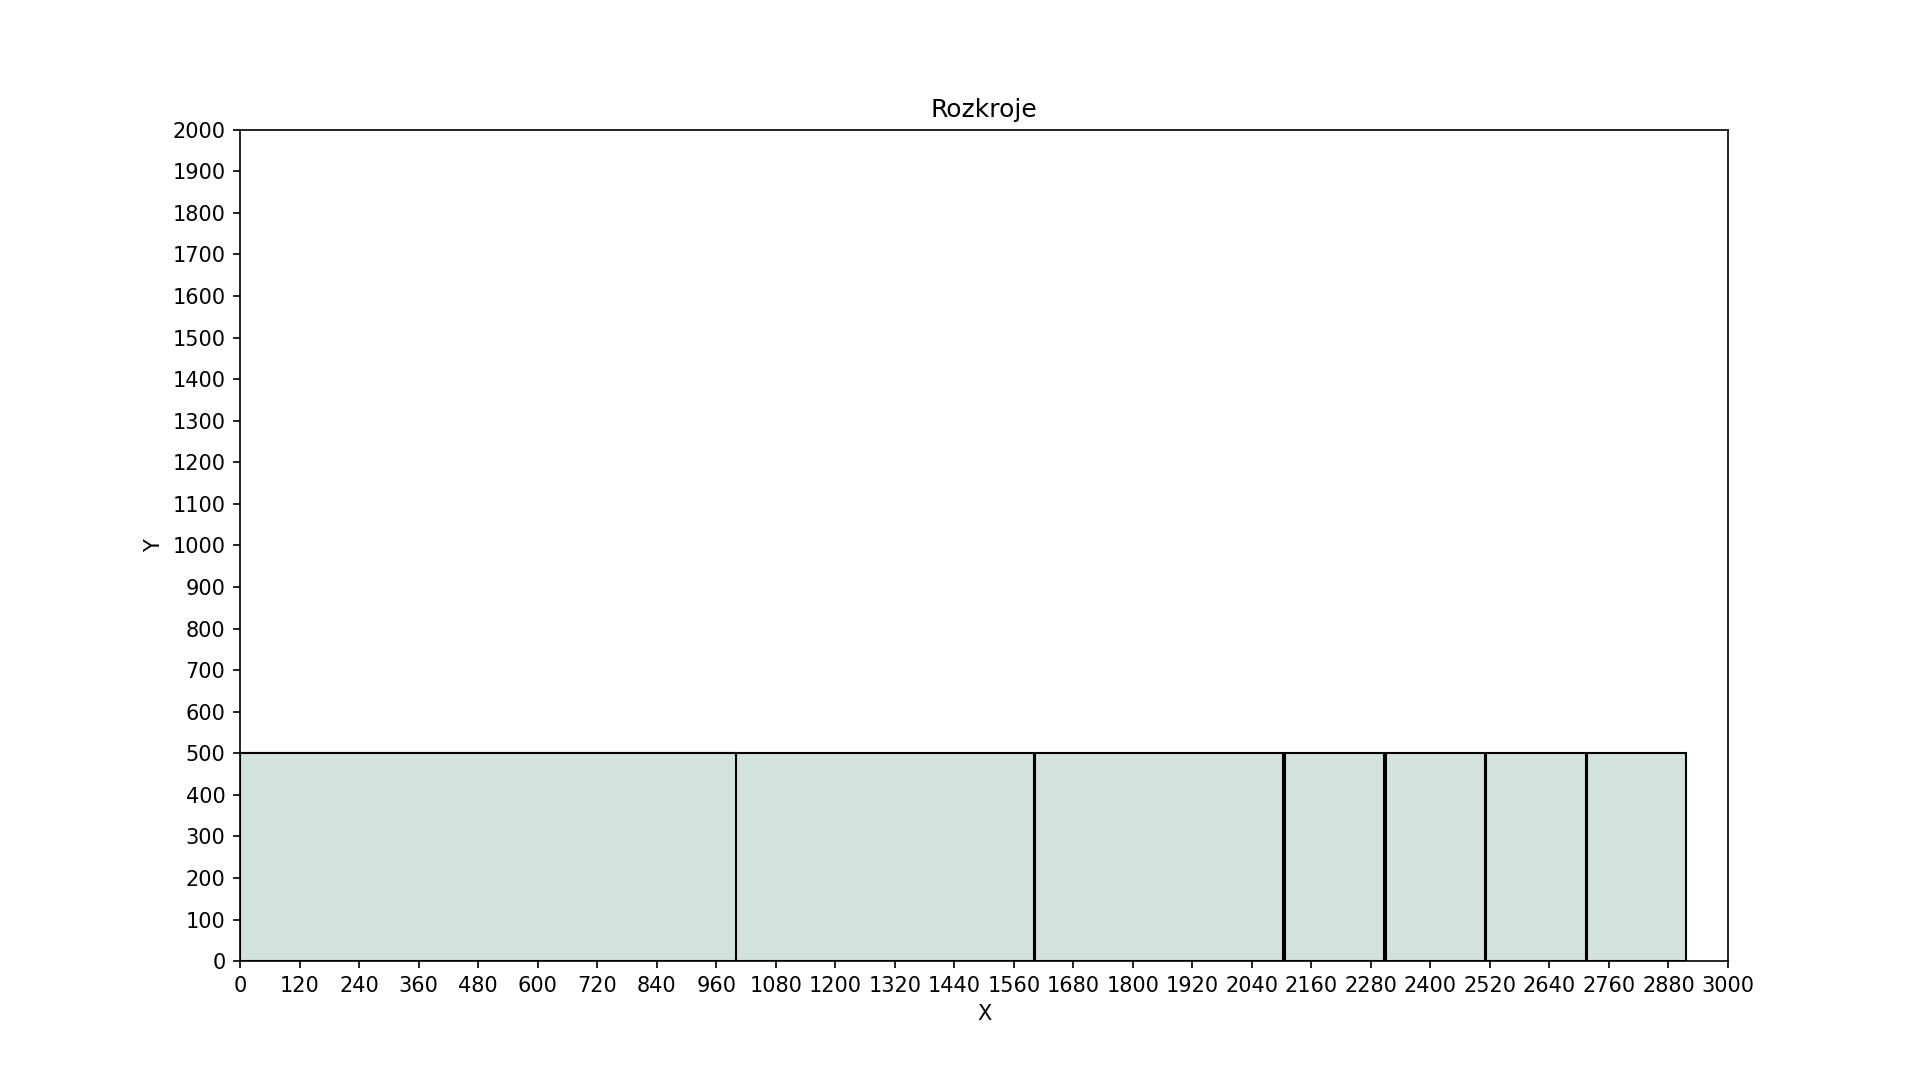
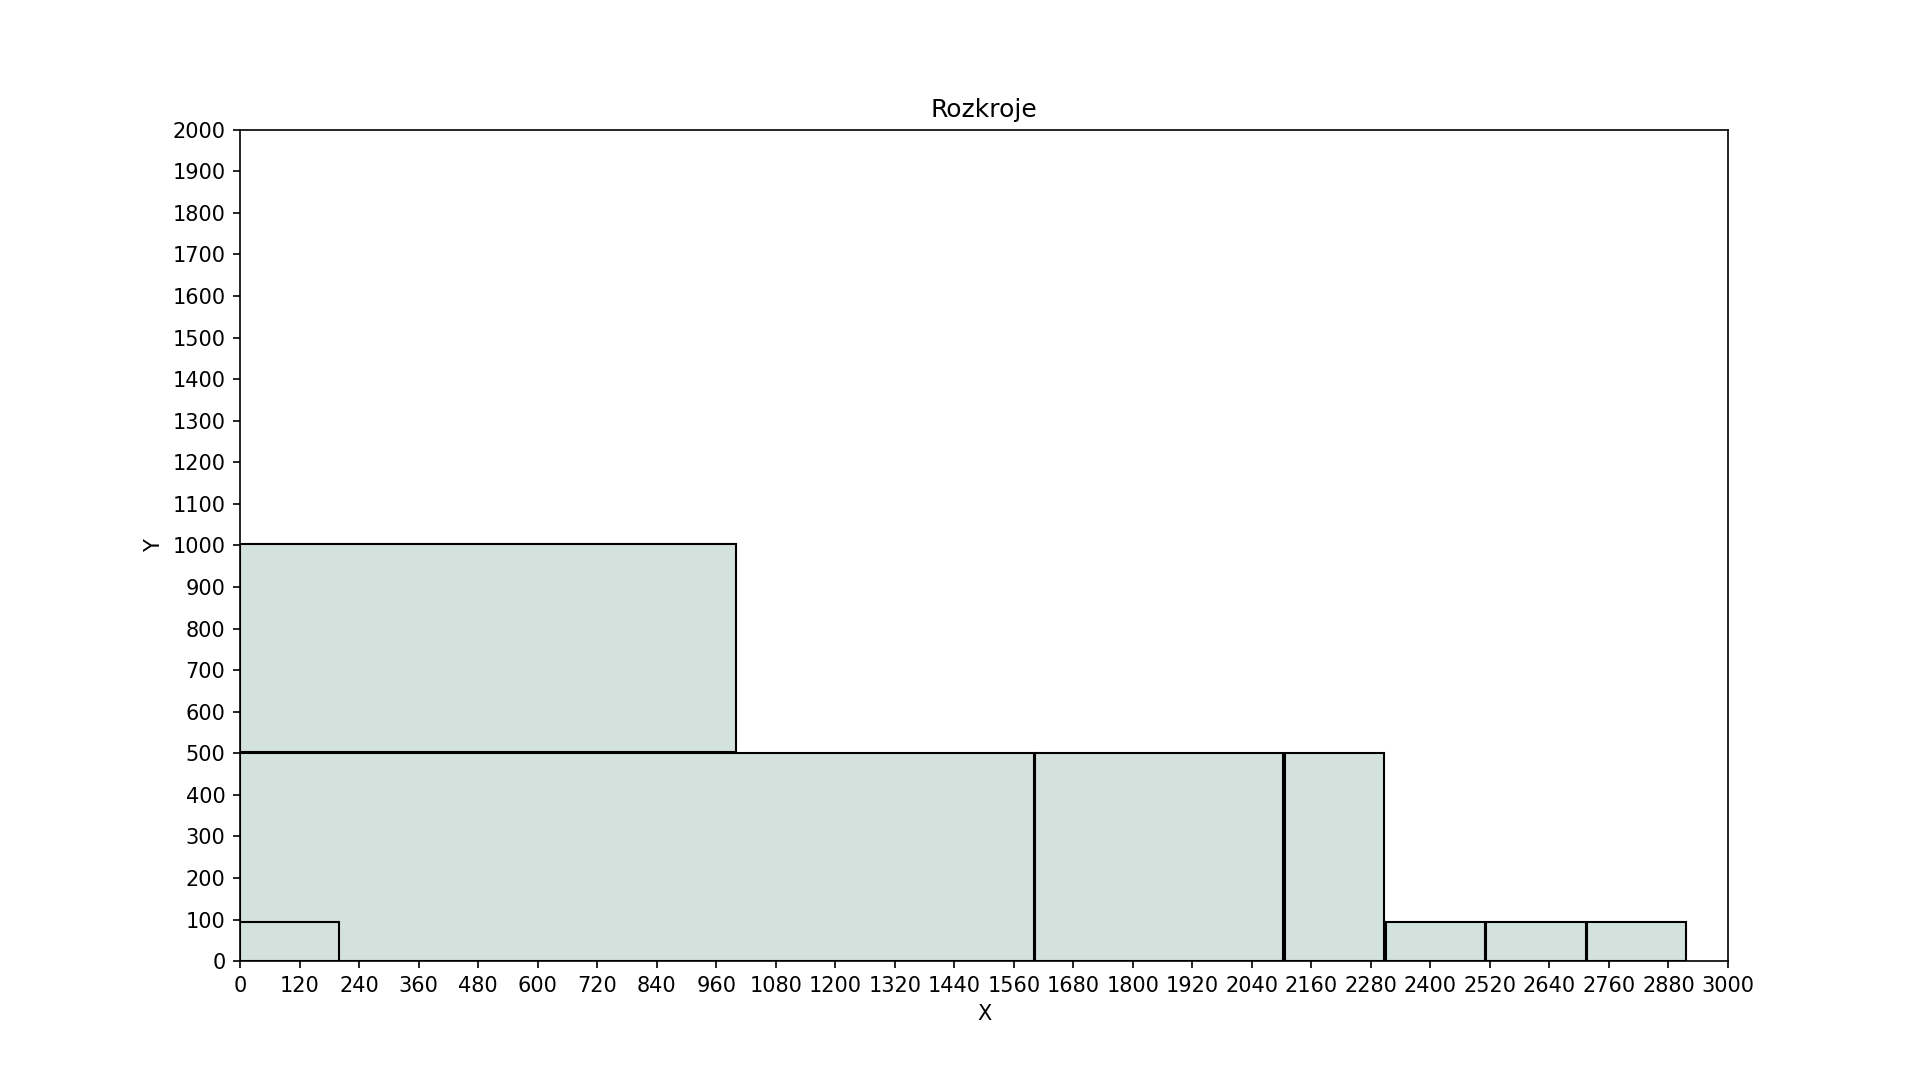
chyba nie dma rady

Changed region(s): [[0.125, 0.4889, 0.4062, 0.7028], [0.7188, 0.6722, 0.9062, 0.8556]]

diff --git a/AutoWood_Backend/product/cut_optimizer/moje.py b/AutoWood_Backend/product/cut_optimizer/moje.py
@@ -34,20 +34,19 @@ class VirtualRow:
         self.start_x = x #pozycja startujaca x
         self.start_y = y #pozycja startujaca y
         self.formats = []
-        self.gaps = []
-
-
-    def add_gap(self,size_x, start_x, width):
-        self.gaps.append([size_x, start_x, width])
+        
 
     def add_format(self, format_width, format_height):
 
         if len(self.formats) == 0:
-
+            format_start = 0
+            if format_width + SAW > self.X:
+                print(f"Not enough space in row. Width left: {self.X}, format width: {format_width}")
+                return False
             self.X = self.X - format_width - SAW
-            self.start_x = 0 + format_width + SAW
+            self.start_x = format_start + format_width + SAW
             self.formats.append([format_width,format_height, self.start_x])
-            generate_rectangle(0,0, format_width, format_height, ax)
+            generate_rectangle(0,self.start_y, format_width, format_height, ax)
             return True
 
 
@@ -62,19 +61,14 @@ class VirtualRow:
         
         else:
             print("Not enough space in that raw. Proceed to next one >>")
-            self.add_gap(self.X, self.start_x, self.Y)
             
-
-
             return False
     
        
     def __str__(self):
         virtual_row_report = f"VirtualRow X: {self.X} ,Y: {self.Y}, start_x: {self.start_x} , start_y: {self.start_y}, formats: {self.formats}"
-        new_gaps = f"Gaps created: {self.gaps}"
-        return virtual_row_report+new_gaps
-
-
+        
+        return virtual_row_report
 
 def generate_board(X,Y):
 
@@ -92,7 +86,7 @@ def generate_board(X,Y):
     #formats = convert_elements(project_data)
     #
 
-    formats = [[1600, 500], [500, 500], [1000,500]]
+    formats = [[1600, 500], [500, 500], [1000,500],[200,500], [200,95],[200,95],[200,95], [200,95] ]
 
     place_elements(formats)
     #print(formats)
@@ -114,7 +108,6 @@ def convert_elements(project_data):
     for element in elements:
         length = element['element']['dimX']
         width = element['element']['dimY']
-        #thickness = element['element']['dimZ'] wyÄąâ€šĂ„â€¦czyÄąâ€šĂ„â„˘Äąâ€ş chwilowo gruboÄąâ€şĂ„â€ˇi
         quantity = element['quantity']
         starting_x = 0
         starting_y = 0
@@ -139,21 +132,54 @@ def generate_rectangle(start_position_x, start_position_y, width, height, ax):
 
 
 def place_elements(formats):
-
     print(formats)
 
-    vrs = []
-    gaps = []
-    current_vr = VirtualRow(X, 500, 0, 0)
+    vrs = []  # List of all VirtualRows (including gaps)
+    current_y_position = 0  # Keep track of the Y position for each new row
+    current_vr = VirtualRow(X, 500, 0, 0)  # Initial row
     vrs.append(current_vr)
-    
-
-    vr1 = VirtualRow(3000, 500, 0, 0)
 
     while formats:
         width, height = formats.pop(0)
         placed = False
 
+        # Try placing the format in existing virtual rows
+        for vr in vrs:
+            placed = vr.add_format(width, height)
+            if placed:
+                print("Placed->break")
+                break
 
+        # If the format wasn't placed, create a new row
+        if not placed:
+            # Create a gap row based on the current virtual row
+            new_gap_vr = VirtualRow(current_vr.X, current_vr.Y, current_vr.start_x, current_vr.start_y)
+            vrs.append(new_gap_vr)
+
+            # Update Y position for the new row
+            current_y_position += current_vr.Y + SAW
+            print(f"Current Y position: {current_y_position}")
+
+            # Create a new virtual row with full width and the required height
+            new_vr = VirtualRow(X, height, 0, current_y_position)
+            print(f"New Virtual Row: {new_vr}")
+            vrs.append(new_vr)
+
+            # Try placing the format in the new row
+            placed = new_vr.add_format(width, height)
+            print(f"first try : {new_vr}")
+
+            if placed:
+                print("Format placed in new row")
+                
+            else:
+                print("Failed to place format in new row")
+
+    for vr in vrs:
+        print(vr)
+    
 
     return 0
+
+
+generate_board(X,Y)

diff --git a/AutoWood_Backend/product/cut_optimizer/wc_opt.py b/AutoWood_Backend/product/cut_optimizer/wc_opt.py
@@ -35,9 +35,6 @@ class VirtualRow:
         self.formats = []  # List of formats placed in this row
        
 
-    def add_gap(self, size_x, start_x, width):
-        self.gaps.append([size_x, start_x, width])
-
     def add_format(self, format_width, format_height):
         if len(self.formats) == 0:
             # Place the first format
@@ -84,7 +81,7 @@ def generate_board(X,Y):
     #formats = convert_elements(project_data)
     #print(formats)
 
-    formats = [[1600, 500], [500, 500], [1000,500], [200,500],[200,500],[200,500],[200,500]]
+    formats = [[1600, 500], [500, 500], [1000,500]]
 
     place_elements(formats)
     #print(formats)
